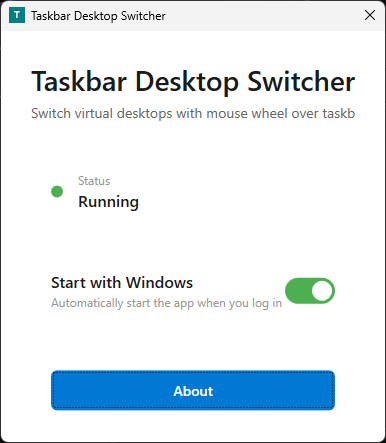
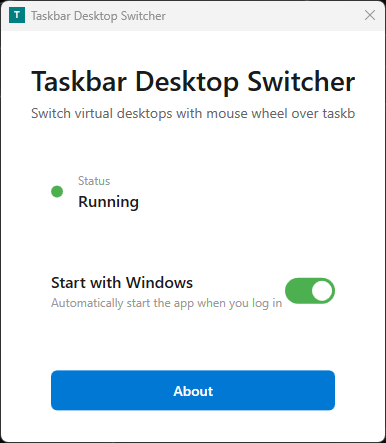
Add second screenshot

Changed region(s): [[0.0933, 0.0293, 0.4352, 0.0587], [0.9326, 0.0293, 0.9637, 0.0587]]

diff --git a/README.md b/README.md
@@ -5,4 +5,6 @@ Taskbar Windows Switcher is a lightweight Windows utility that lets you switch v
 
 ## Screenshot
 
-![App Screenshot](screenshots/app.png)
+![Screenshot 1](screenshots/app.png)
+
+![Screenshot 2](screenshots/app - Copy.png)
